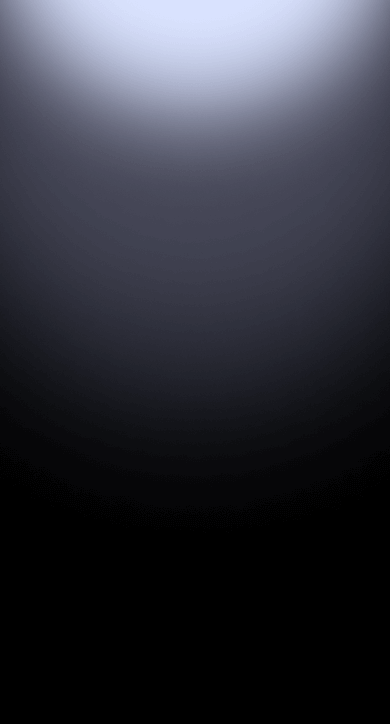
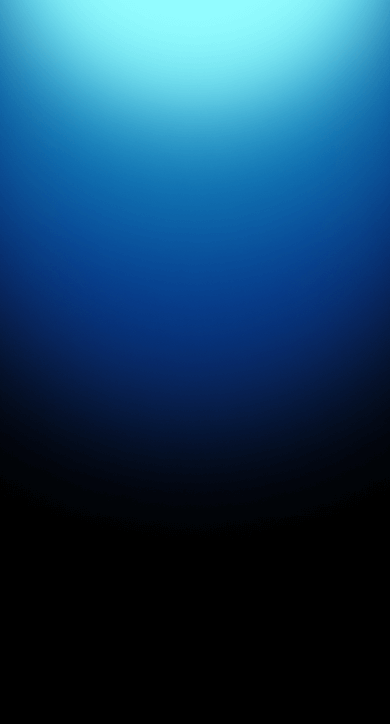
Add files via upload

diff --git a/assets/api/notcoin/index.html b/assets/api/notcoin/index.html
@@ -160,6 +160,7 @@ hr {
 .icon-list {
   height: 50px;
 }
+
 </style>
 <body>
   <div id="container">
@@ -195,14 +196,13 @@ hr {
 </body>
 <script>
 const profile_colors = [
-  "DD4342",
-  "E57200",
-  "9E5AE3",
-  "00AC00",
-  "B4009E",
-  "00A0BE",
-  "008CD8",
-  "D7458C"
+  "5dadde",
+  "79ca7b",
+  "e39552",
+  "e35a62",
+  "a480dd",
+  "5ac1d0",
+  "e75089"
 ];
 
 const calculateColor = (name) => {
